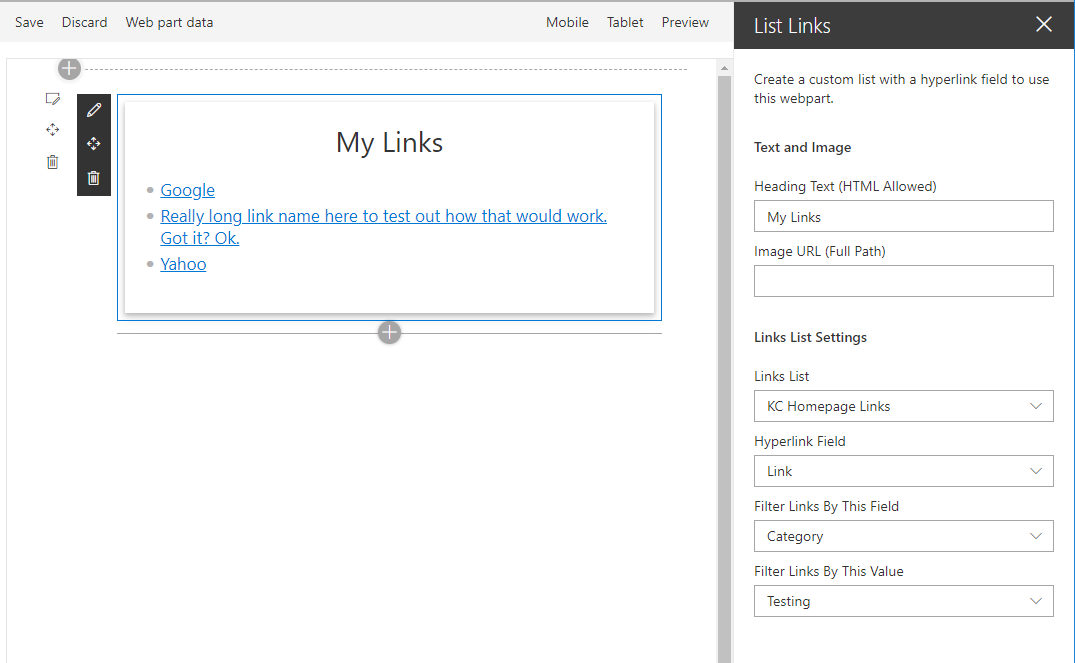
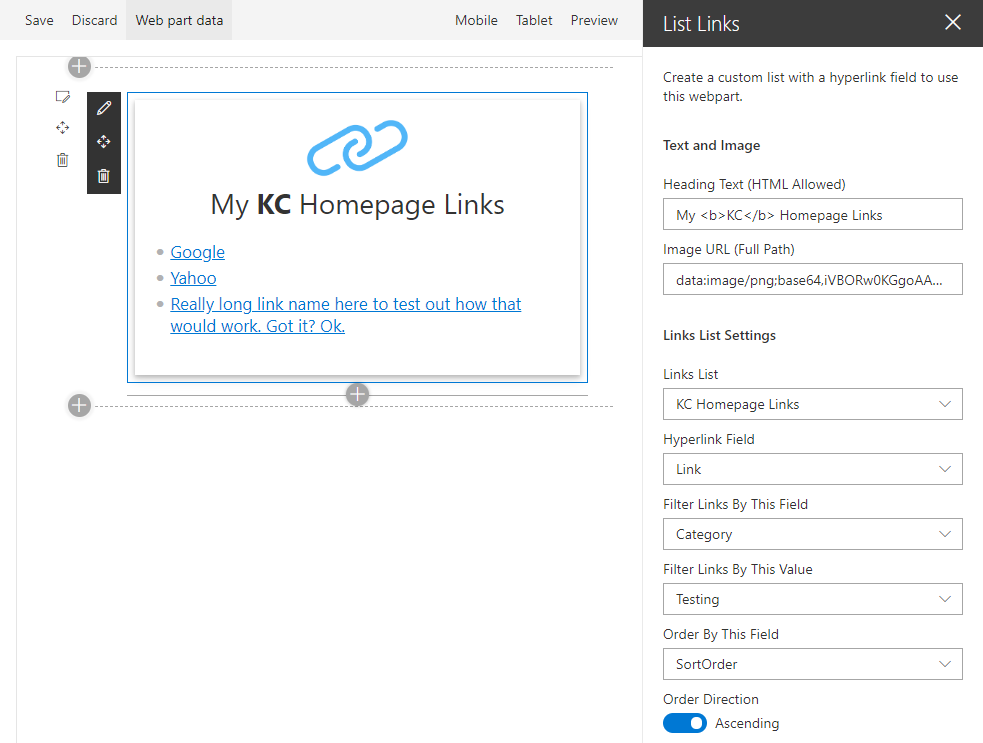
Added Order By option

diff --git a/src/webparts/listLinks/ListLinksWebPart.ts b/src/webparts/listLinks/ListLinksWebPart.ts
@@ -3,7 +3,8 @@ import { BaseClientSideWebPart, IPropertyPaneDropdownOption } from '@microsoft/s
 import {
   IPropertyPaneConfiguration,
   PropertyPaneTextField,
-  PropertyPaneDropdown
+  PropertyPaneDropdown,
+  PropertyPaneToggle
 } from '@microsoft/sp-property-pane';
 import { escape } from '@microsoft/sp-lodash-subset';
 
@@ -20,6 +21,8 @@ export interface IListLinksWebPartProps {
   hyperlinkField: string;
   categoryField: string;
   categoryValue: string;
+  orderbyField: string;
+  orderbyAsc: boolean;
 }
 
 interface IListItem {
@@ -45,6 +48,9 @@ export default class ListLinksWebPart extends BaseClientSideWebPart<IListLinksWe
 
   private categoryValues: IPropertyPaneDropdownOption[];
   private categoryValueDropdownDisabled: boolean = true;
+
+  private orderbyFields: IPropertyPaneDropdownOption[];
+  private orderbyFieldDropdownDisabled: boolean = true;
 
   protected onInit(): Promise<void> {
     return new Promise<void>((resolve: () => void, reject: (error?: any) => void): void => {
@@ -101,14 +107,14 @@ export default class ListLinksWebPart extends BaseClientSideWebPart<IListLinksWe
     });
   }
 
-  private loadFieldsByType(fieldType: string): Promise<IPropertyPaneDropdownOption[]> {
+  private loadFieldsByType(fieldType: string, filterStr?: string): Promise<IPropertyPaneDropdownOption[]> {
     if (!this.properties.listName) {
       return Promise.resolve();
     }
-
+    let filter = filterStr || "ReadOnlyField eq false and TypeAsString eq '" + fieldType + "'";
     return new Promise<IPropertyPaneDropdownOption[]>((resolve: (options: IPropertyPaneDropdownOption[]) => void, reject: (error: any) => void) => {
       sp.web.lists.getByTitle(this.properties.listName).fields
-      .filter("ReadOnlyField eq false and TypeAsString eq '" + fieldType + "'").select("InternalName,Title").get()
+      .filter(filter).select("InternalName,Title").get()
       .then((data): void => {
         resolve(
           data.map(item => {
@@ -151,8 +157,10 @@ export default class ListLinksWebPart extends BaseClientSideWebPart<IListLinksWe
       if(this.properties.categoryField && this.properties.categoryValue){
         filter = this.properties.categoryField + " eq '" + this.properties.categoryValue + "'";
       }
+      console.log(this.properties.orderbyAsc);
       sp.web.lists.getByTitle(this.properties.listName)
-      .items.filter(filter).select(this.properties.hyperlinkField).get()
+      .items.filter(filter).select(this.properties.hyperlinkField)
+      .orderBy(this.properties.orderbyField || "ID", this.properties.orderbyAsc).get()
       .then((items: IListItem[]): void => {
         this.updateLinkItemsHtml(items);
       }, (error: any): void => {
@@ -211,6 +219,13 @@ export default class ListLinksWebPart extends BaseClientSideWebPart<IListLinksWe
       this.hyperlinkFieldDropdownDisabled = !this.properties.listName;
       this.context.propertyPane.refresh();
       this.render();
+      return this.loadFieldsByType("*", "Hidden eq false and Sortable eq true");
+    })
+    .then((orderbyOptions: IPropertyPaneDropdownOption[]): Promise<IPropertyPaneDropdownOption[]> => {
+      this.orderbyFields = orderbyOptions;
+      this.orderbyFieldDropdownDisabled = !this.properties.listName;
+      this.context.propertyPane.refresh();
+      this.render();
       return this.loadFieldsByType("Text");
     })
     .then((categoryFieldOptions: IPropertyPaneDropdownOption[]): Promise<IPropertyPaneDropdownOption[]> => {
@@ -236,6 +251,11 @@ export default class ListLinksWebPart extends BaseClientSideWebPart<IListLinksWe
       this.onPropertyPaneFieldChanged('hyperlinkField', previousHyperlinkField, this.properties.hyperlinkField);
       this.hyperlinkFieldDropdownDisabled = true;
 
+      const previousOrderbyField: string = this.properties.orderbyField;
+      this.properties.orderbyField = undefined;
+      this.onPropertyPaneFieldChanged('orderbyField', previousOrderbyField, this.properties.orderbyField);
+      this.orderbyFieldDropdownDisabled = true;
+
       const previousCategoryField: string = this.properties.categoryField;
       this.properties.categoryField = undefined;
       this.onPropertyPaneFieldChanged('categoryField', previousCategoryField, this.properties.categoryField);
@@ -254,6 +274,13 @@ export default class ListLinksWebPart extends BaseClientSideWebPart<IListLinksWe
         this.hyperlinkFieldDropdownDisabled = false;
         this.render();
         this.context.propertyPane.refresh();
+        return this.loadFieldsByType("*", "Hidden eq false and Sortable eq true");
+      })
+      .then((orderbyFieldOptions: IPropertyPaneDropdownOption[]): Promise<IPropertyPaneDropdownOption[]> => {
+        this.orderbyFields = orderbyFieldOptions;
+        this.orderbyFieldDropdownDisabled = false;
+        this.render();
+        this.context.propertyPane.refresh();
         return this.loadFieldsByType("Text");
       })
       .then((categoryFieldOptions: IPropertyPaneDropdownOption[]): Promise<IPropertyPaneDropdownOption[]> => {
@@ -269,7 +296,7 @@ export default class ListLinksWebPart extends BaseClientSideWebPart<IListLinksWe
         this.render();
         this.context.propertyPane.refresh();
       });
-    } else if (propertyPath === 'categoryField' && newValue){
+    } else if (propertyPath === 'categoryField' && newValue) {
       const previousCategoryValue: string = this.properties.categoryValue;
       this.properties.categoryValue = undefined;
       this.onPropertyPaneFieldChanged('categoryValue', previousCategoryValue, this.properties.categoryValue);
@@ -285,6 +312,8 @@ export default class ListLinksWebPart extends BaseClientSideWebPart<IListLinksWe
         this.render();
         this.context.propertyPane.refresh();
       });
+    } else if (propertyPath === 'orderbyAscField') {
+      this.properties.orderbyAsc = newValue;
     }
   }
 
@@ -329,6 +358,17 @@ export default class ListLinksWebPart extends BaseClientSideWebPart<IListLinksWe
                   label: strings.CategoryValueFieldLabel,
                   options: this.categoryValues,
                   disabled: this.categoryValueDropdownDisabled
+                }),
+                PropertyPaneDropdown('orderbyField', {
+                  label: strings.OrderbyValueFieldLabel,
+                  options: this.orderbyFields,
+                  disabled: this.orderbyFieldDropdownDisabled
+                }),
+                PropertyPaneToggle('orderbyAscField', {
+                  label: strings.OrderbyAscFieldLabel,
+                  checked: this.properties.orderbyAsc,
+                  onText: "Ascending",
+                  offText: "Descending"
                 })
               ]
             }

diff --git a/src/webparts/listLinks/loc/en-us.js b/src/webparts/listLinks/loc/en-us.js
@@ -8,6 +8,8 @@ define([], function() {
     "ListNameFieldLabel": "Links List",
     "HyperlinkFieldFieldLabel": "Hyperlink Field",
     "CategoryFieldFieldLabel": "Filter Links By This Field",
-    "CategoryValueFieldLabel": "Filter Links By This Value"
+    "CategoryValueFieldLabel": "Filter Links By This Value",
+    "OrderbyValueFieldLabel": "Order By This Field",
+    "OrderbyAscFieldLabel": "Order Direction"
   }
 });

diff --git a/src/webparts/listLinks/loc/mystrings.d.ts b/src/webparts/listLinks/loc/mystrings.d.ts
@@ -8,6 +8,8 @@ declare interface IListLinksWebPartStrings {
   HyperlinkFieldFieldLabel: string;
   CategoryFieldFieldLabel: string;
   CategoryValueFieldLabel: string;
+  OrderbyValueFieldLabel: string;
+  OrderbyAscFieldLabel: string;
 }
 
 declare module 'ListLinksWebPartStrings' {
